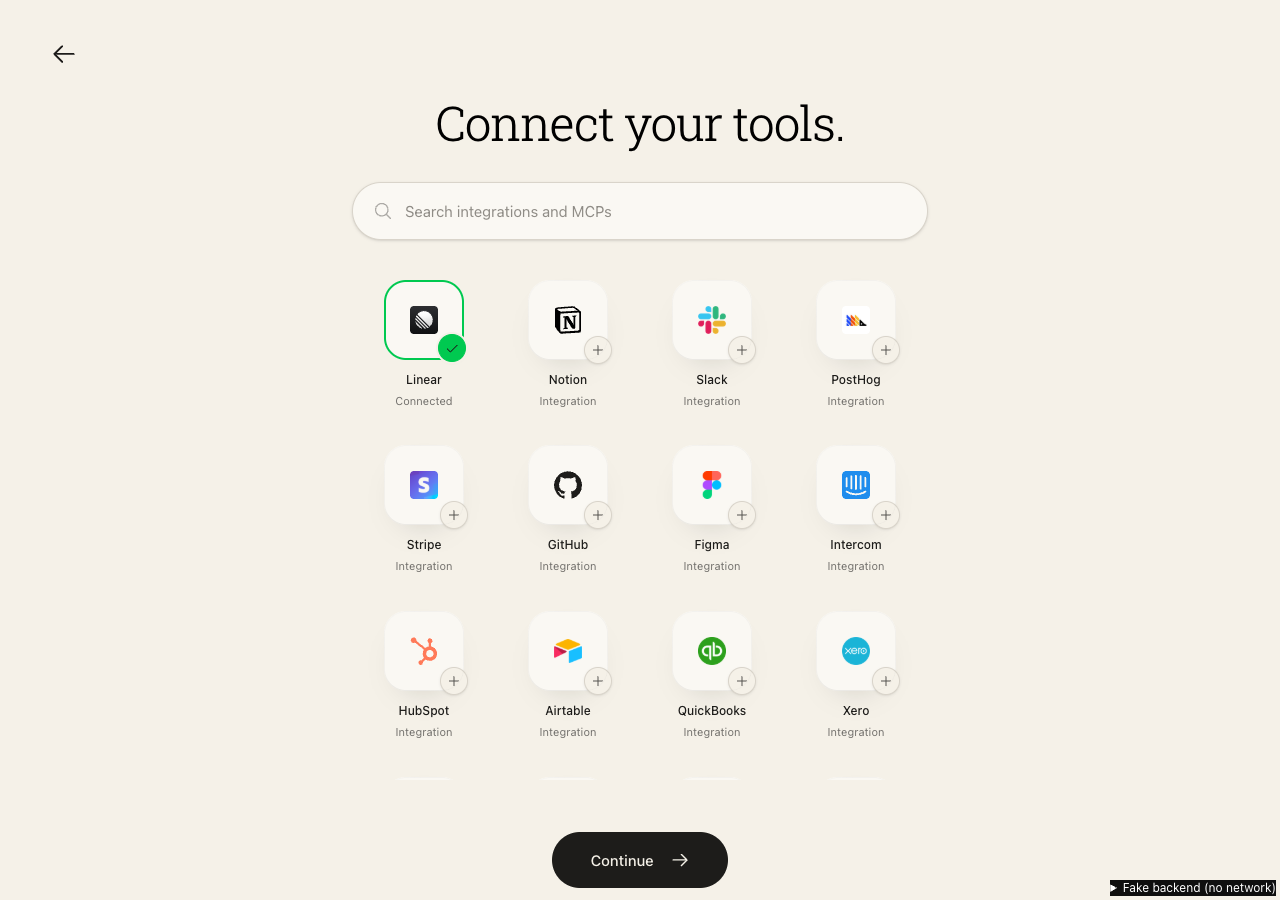
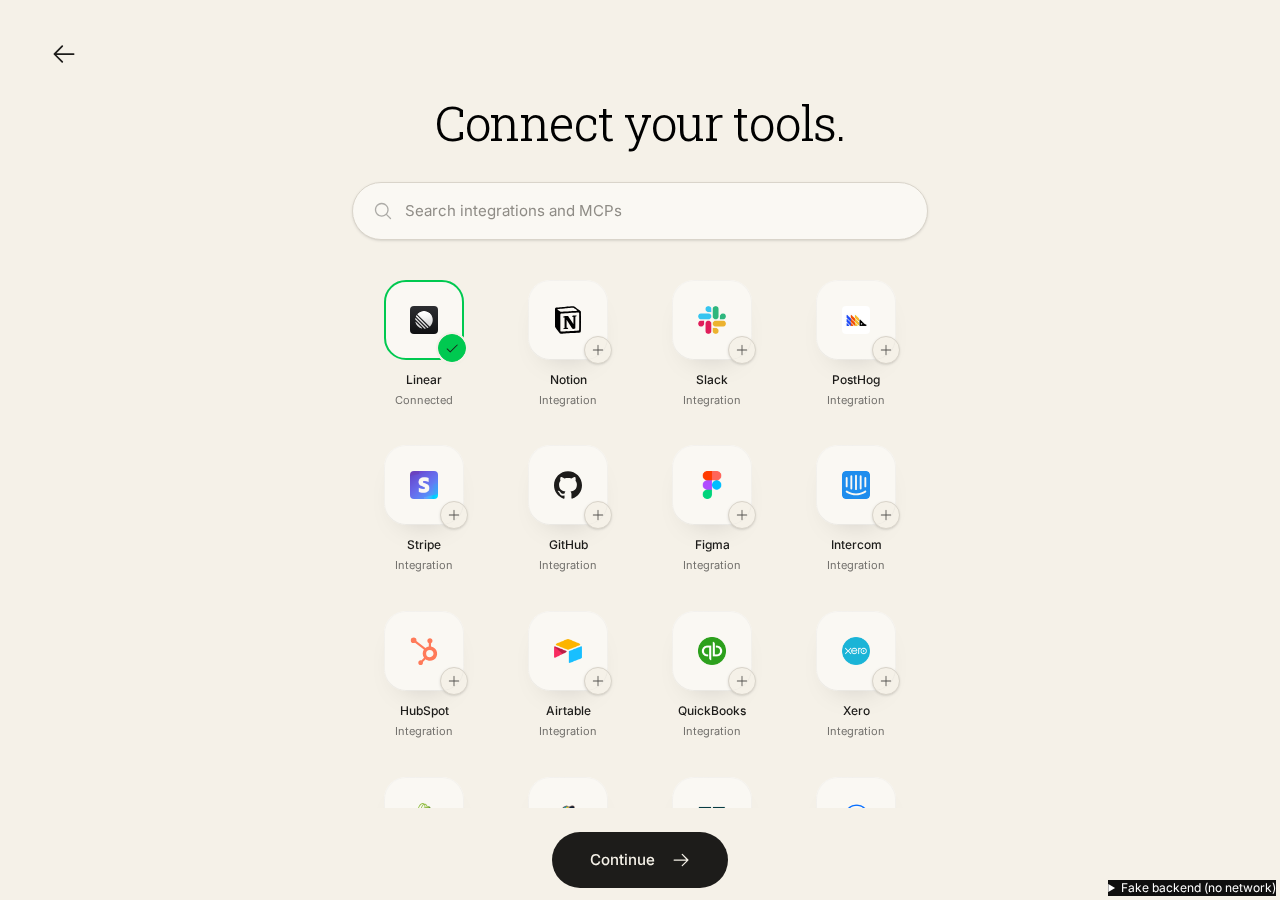
fix(onboarding): keep connector continue button visible (#8320)

diff --git a/apps/web/src/features/onboarding/browser-test/tools-layout.browser.e2e.ts b/apps/web/src/features/onboarding/browser-test/tools-layout.browser.e2e.ts
@@ -1,0 +1,81 @@
+import { expect, test } from '@playwright/test';
+import { heading, openFixture } from './fixture-page';
+
+for (const viewport of [
+  { width: 1280, height: 720 },
+  { width: 1440, height: 900 },
+  { width: 390, height: 667 },
+  { width: 820, height: 1180 },
+]) {
+  test.describe(`${viewport.width}×${viewport.height} connector layout`, () => {
+    test.use({ viewport, hasTouch: true });
+
+    test('scrolls the page and keeps Continue reachable', async ({
+      page,
+    }, testInfo) => {
+      await openFixture(page, '/?view=flow&theme=cream', {
+        catalog: Array.from({ length: 24 }, (_, index) => ({
+          slug: `tool-${index}`,
+          name: `Tool ${index}`,
+          iconUrl: null,
+        })),
+      });
+      await page.evaluate(() =>
+        sessionStorage.setItem(
+          'onboarding-flow-step',
+          JSON.stringify({ user: 'macro|ada@acme.com', step: 'tools' })
+        )
+      );
+      await page.reload();
+      await expect(heading(page, 'Connect your tools.')).toBeVisible();
+      const next = page.getByRole('button', { name: 'Continue', exact: true });
+      const catalog = page.getByRole('region', {
+        name: 'Available integrations',
+      });
+      const scroller = page.locator('[data-onboarding-scroll]');
+      await expect(next).toBeInViewport({ ratio: 1 });
+      expect(
+        await catalog.evaluate((el) => el.scrollHeight - el.clientHeight)
+      ).toBe(0);
+      await page.screenshot({ path: testInfo.outputPath('tools-top.png') });
+
+      await catalog.getByRole('button').first().hover();
+      await page.mouse.wheel(0, 350);
+      await expect
+        .poll(() => scroller.evaluate((el) => el.scrollTop))
+        .toBeGreaterThan(0);
+      expect(await catalog.evaluate((el) => el.scrollTop)).toBe(0);
+      await expect(next).toBeInViewport({ ratio: 1 });
+
+      await scroller.evaluate((el) => el.scrollTo(0, el.scrollHeight));
+      const last = catalog.getByRole('button', {
+        name: 'Connect Tool 23',
+        exact: true,
+      });
+      await expect(last).toBeInViewport({ ratio: 1 });
+      await last.tap();
+      await expect(
+        catalog.getByRole('button', {
+          name: 'Connected to Tool 23',
+          exact: true,
+        })
+      ).toBeDisabled();
+      await expect(next).toBeInViewport({ ratio: 1 });
+      await page.screenshot({ path: testInfo.outputPath('tools-bottom.png') });
+
+      await page.getByRole('searchbox').fill('Tool 23');
+      await expect(catalog.getByRole('button')).toHaveCount(1);
+      await expect(next).toBeInViewport({ ratio: 1 });
+      await page.getByRole('searchbox').fill('no results');
+      await expect(page.getByText(/No integrations match/)).toBeVisible();
+      await expect(next).toBeInViewport({ ratio: 1 });
+      expect(
+        await page.evaluate(
+          () => document.documentElement.scrollWidth <= innerWidth
+        )
+      ).toBe(true);
+      await next.tap();
+      await expect(heading(page, 'Built for teams.')).toBeVisible();
+    });
+  });
+}

diff --git a/apps/web/src/features/onboarding/views/tools-step.tsx b/apps/web/src/features/onboarding/views/tools-step.tsx
@@ -41,13 +41,7 @@ export function ToolsStep(props: { onContinue: () => void }) {
           class="min-w-0 flex-1 bg-transparent text-base outline-none placeholder:text-ink-placeholder"
         />
       </label>
-      <div
-        role="region"
-        aria-label="Available integrations"
-        tabindex="0"
-        class="h-[32rem] overflow-y-auto rounded-xl px-1 py-1 outline-none focus-visible:ring-1 focus-visible:ring-ink/30"
-        style={{ 'scrollbar-gutter': 'stable' }}
-      >
+      <div role="region" aria-label="Available integrations" class="px-1 py-1">
         <div class="grid grid-cols-3 gap-x-2 gap-y-5 sm:grid-cols-4">
           <For each={entries()}>
             {(tool) => (
@@ -129,10 +123,12 @@ export function ToolsStep(props: { onContinue: () => void }) {
           </button>
         </Show>
       </div>
-      <ContinueButton
-        disabled={busy() !== undefined}
-        onClick={props.onContinue}
-      />
+      <div class="sticky bottom-0 z-10 bg-surface pb-[var(--safe-bottom,0px)]">
+        <ContinueButton
+          disabled={busy() !== undefined}
+          onClick={props.onContinue}
+        />
+      </div>
     </div>
   );
 }

diff --git a/docs/agent-guide/login.md b/docs/agent-guide/login.md
@@ -202,6 +202,9 @@ Slack aliases must not duplicate cards. New Slack connections use `slack_v2`;
 existing `slack` accounts remain recognized. Production release requires a real
 Slack authorization and a successful read-only tool call, not just fixture tests.
 Cards use the Pipedream logo, with bundled icons and a generic plug as fallbacks.
+The catalog scrolls with the page; Continue stays visible in a sticky footer.
+At desktop and phone widths, verify scrolling over the cards moves the page,
+the last row remains reachable, and Continue stays fully visible after searching.
 
 GitHub uses Macro's native OAuth/re-authorization flow and returns to the tools
 step. It shows **Account linked**, distinct from agent-tool readiness. A
